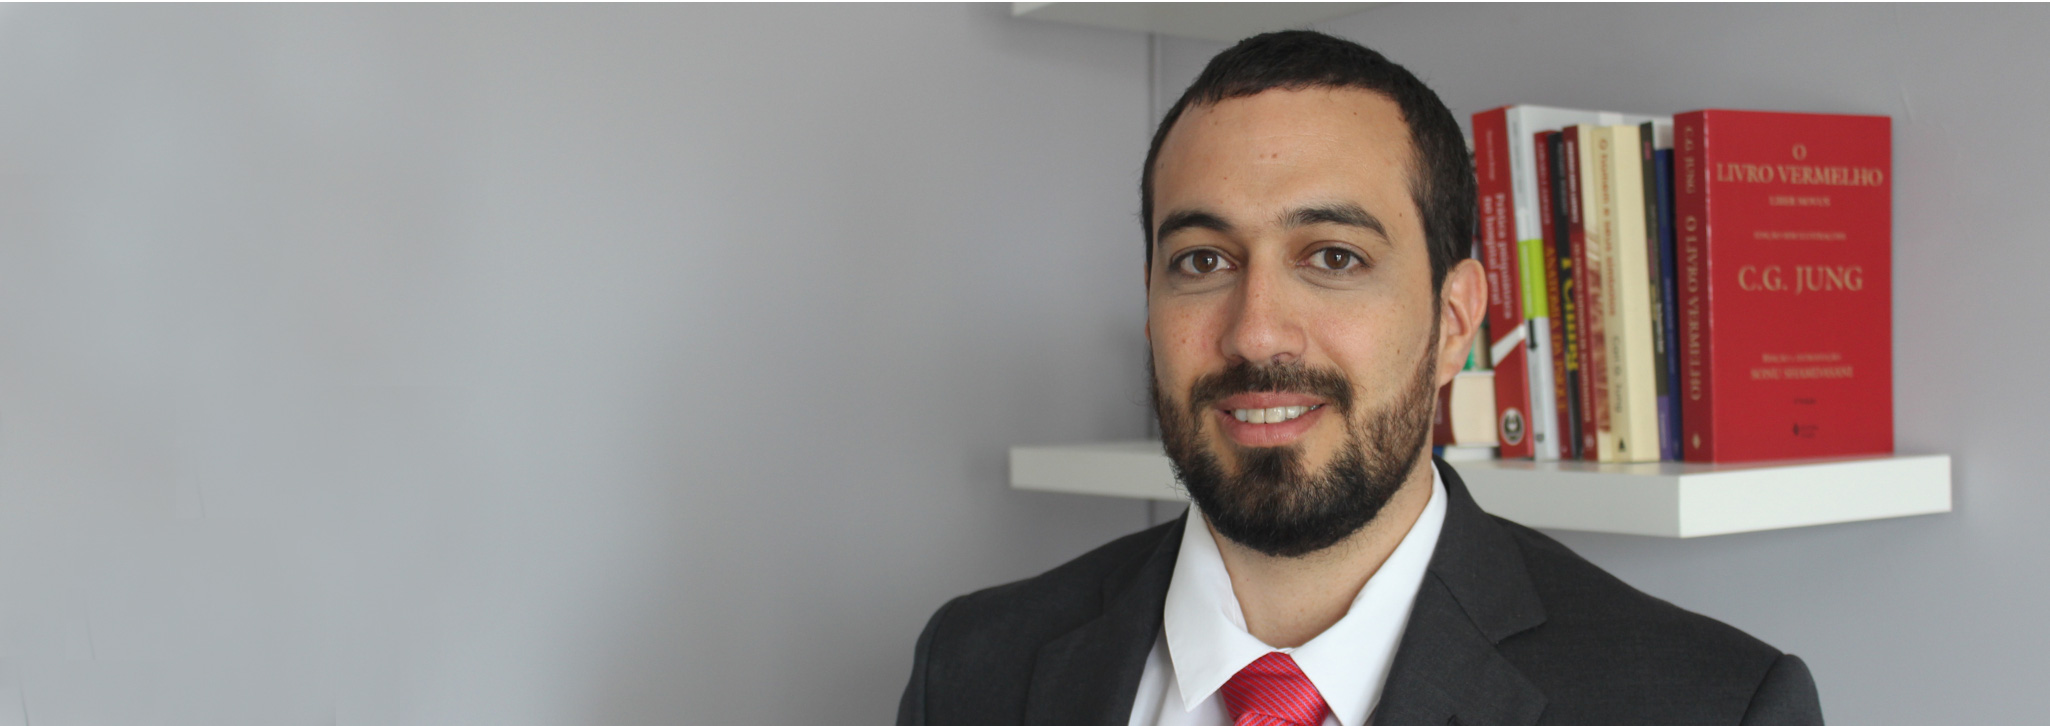
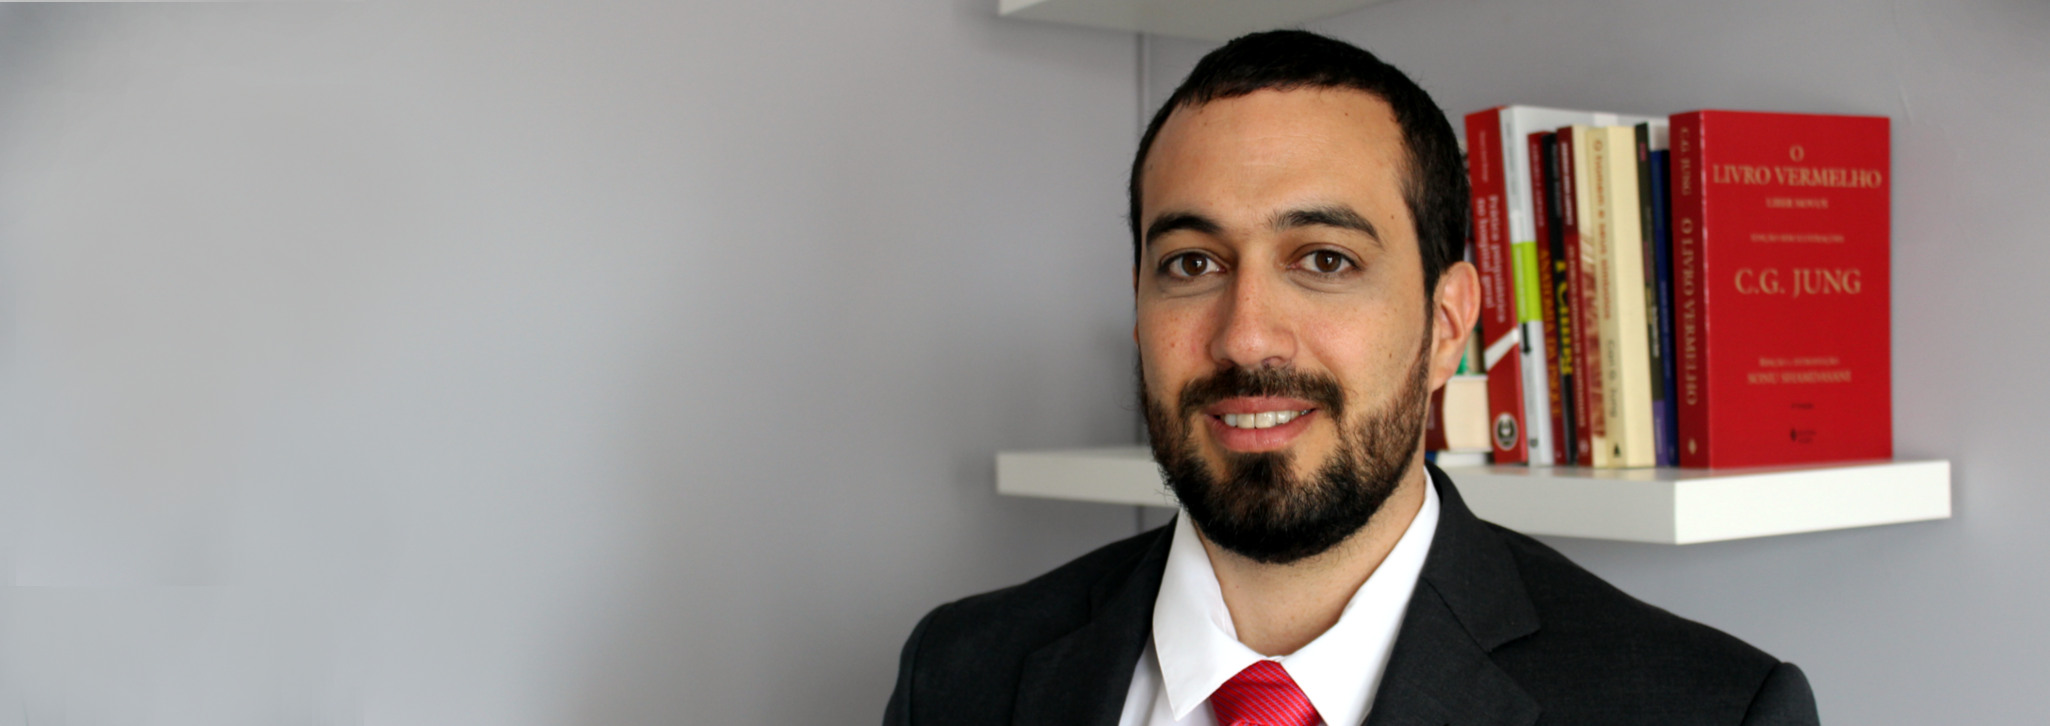
foto e transparencia no destaque

diff --git a/index2.html b/index2.html
@@ -161,10 +161,11 @@
                         <div class="grid_4 wow fadeInUp">
                             <div class="box-02_a">
                                 <h6>Formação e experiência</h6>
-                                    <p>Formado em medicina e em psiquiatria pela Faculdade de Ciências Médicas da Santa Casa de São Paulo.
-Professor voluntário da Liga de Psiquiatria da Santa Casa de São Paulo há 9 anos, ensinando psiquiatria aos alunos da faculdade.
-Com 6 anos de experiência no tratamento de transtornos mentais graves nos CAPS (Centros de Atenção Psicossocial) nas cidades de São Bernardo do Campo e na capital de São Paulo. Com 6 anos de experiência em matriciamento de médicos generalistas da atenção básica, ensinando o tratamento e o manejo dos principais transtornos mentais.
-Psicoterapeuta em formação pela EPP (Escola Paulista de Psicodrama), com ênfase na aplicação das técnicas psicodramáticas ao setting bipessoal</p>
+                                    <p>- Formado em medicina e em psiquiatria pela Faculdade de Ciências Médicas da Santa Casa de São Paulo.</p>
+                                    <p>- Professor voluntário da Liga de Psiquiatria da Santa Casa de São Paulo há 9 anos, ensinando psiquiatria aos alunos da faculdade.</p>
+                                    <p>- Com 6 anos de experiência no tratamento de transtornos mentais graves nos CAPS (Centros de Atenção Psicossocial) nas cidades de São Bernardo do Campo e na capital de São Paulo. </p>
+                                    <p>- Com 6 anos de experiência em matriciamento de médicos generalistas da atenção básica, ensinando o tratamento e o manejo dos principais transtornos mentais.</p>
+                                    <p>- Psicoterapeuta em formação pela EPP (Escola Paulista de Psicodrama), com ênfase na aplicação das técnicas psicodramáticas ao setting bipessoal.</p>
 
                             </div>                            
                         </div>

diff --git a/js/camera.js b/js/camera.js
@@ -1907,7 +1907,7 @@
 									t.animate({opacity:0},0).css({'bottom':'-'+thisH+'px'});
 									t.css('visibility','visible').delay((time/lMoveInContent)*(0.1*(ind-1))).animate({'bottom':'0',opacity:1},(time/lMoveInContent)*0.15,easeMove);
 								} else if(tClass.indexOf("fadeIn") != -1) {
-									t.animate({opacity:0},0).css('visibility','visible').delay((time/lMoveInContent)*(0.1*(ind-1))).animate({opacity:1},(time/lMoveInContent)*0.15,easeMove);
+									t.animate({opacity:0},0).css('visibility','visible').delay((time/lMoveInContent)*(0.1*(ind-1))).animate({opacity:0.7},(time/lMoveInContent)*0.15,easeMove);
 								} else {
 									t.css('visibility','visible');
 								}
